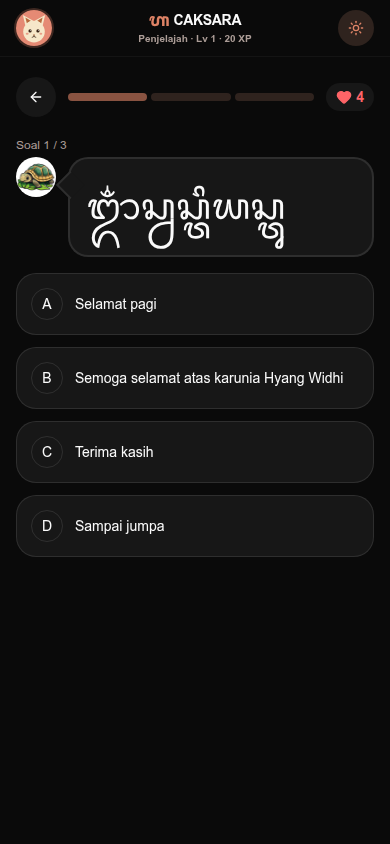
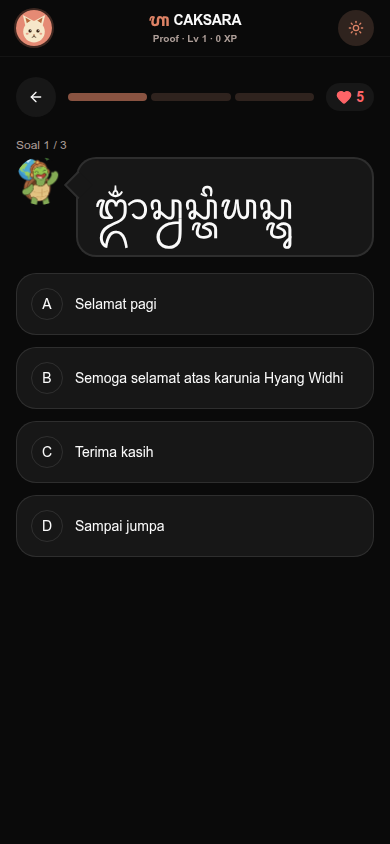
feat(v3-tracer): migrasi Bedawang ke PNG transparan bedawang-*
Sync origin/develop pasca-PR #53. bedawang.tsx kini petakan mood ke
varian PNG (senang->happy, semangat->waving, sedih/default->standing),
lepas dari JPG new-hero-mascot.jpg. Avatar bubble quiz-visual size-10
-> size-12 agar maskot ber-padding tetap terbaca. Re-proof bubble
390 + 1280 + dark di docs/proof/v3-tracer/.

diff --git a/apps/web/src/components/bedawang.tsx b/apps/web/src/components/bedawang.tsx
@@ -3,6 +3,11 @@ import type { BedawangAccessory, BedawangHead, BedawangShell } from "../lib/zod/
 
 export type BedawangMood = "senang" | "semangat" | "sedih";
 
+// HACK(debt): pakai SATU set nama saja (bedawang-*). Varian mascot-* identik
+// byte-for-byte (md5 sama) — duplikasi ~1,1MB, lihat debt issue. JPG lama
+// (new-hero-mascot.jpg) tak lagi dirujuk kode; dibiarkan agar tidak break
+// pemakai tak terduga, hapus terpisah.
+
 export interface BedawangProps {
   mood?: BedawangMood;
   className?: string;
@@ -16,7 +21,15 @@ export interface BedawangProps {
   onClick?: () => void;
 }
 
-export function Bedawang({ className, animate, interactive, onClick }: BedawangProps) {
+const MOOD_SRC: Record<BedawangMood, string> = {
+  senang: "/assets/bedawang-happy.png",
+  semangat: "/assets/bedawang-waving.png",
+  sedih: "/assets/bedawang-standing.png",
+};
+
+const DEFAULT_SRC = "/assets/bedawang-standing.png";
+
+export function Bedawang({ mood, className, animate, interactive, onClick }: BedawangProps) {
   return (
     <div
       className={cn("relative overflow-hidden rounded-full", className)}
@@ -24,8 +37,8 @@ export function Bedawang({ className, animate, interactive, onClick }: BedawangP
       style={{ cursor: interactive ? "pointer" : "default" }}
     >
       <img
-        src="/assets/new-hero-mascot.jpg"
-        alt="Maskot Caksara"
+        src={mood ? MOOD_SRC[mood] : DEFAULT_SRC}
+        alt="Maskot Bedawang Nala"
         className={cn("h-full w-full object-cover", animate && "animate-pulse")}
       />
     </div>

diff --git a/apps/web/src/features/quiz/quiz-visual.tsx b/apps/web/src/features/quiz/quiz-visual.tsx
@@ -14,7 +14,7 @@ export function KenaliVisualPrompt({ question, showFeedback, isCorrect }: Kenali
   const isAudio = question.audioUrl || question.type === "dengar_pilih";
   return (
     <div className="mb-4 flex gap-3">
-      <Bedawang mood="semangat" className="size-10 shrink-0" />
+      <Bedawang mood="semangat" className="size-12 shrink-0" />
       <div
         className={cn(
           "relative min-w-0 flex-1 rounded-2xl border-2 border-border bg-card px-4 py-3",
